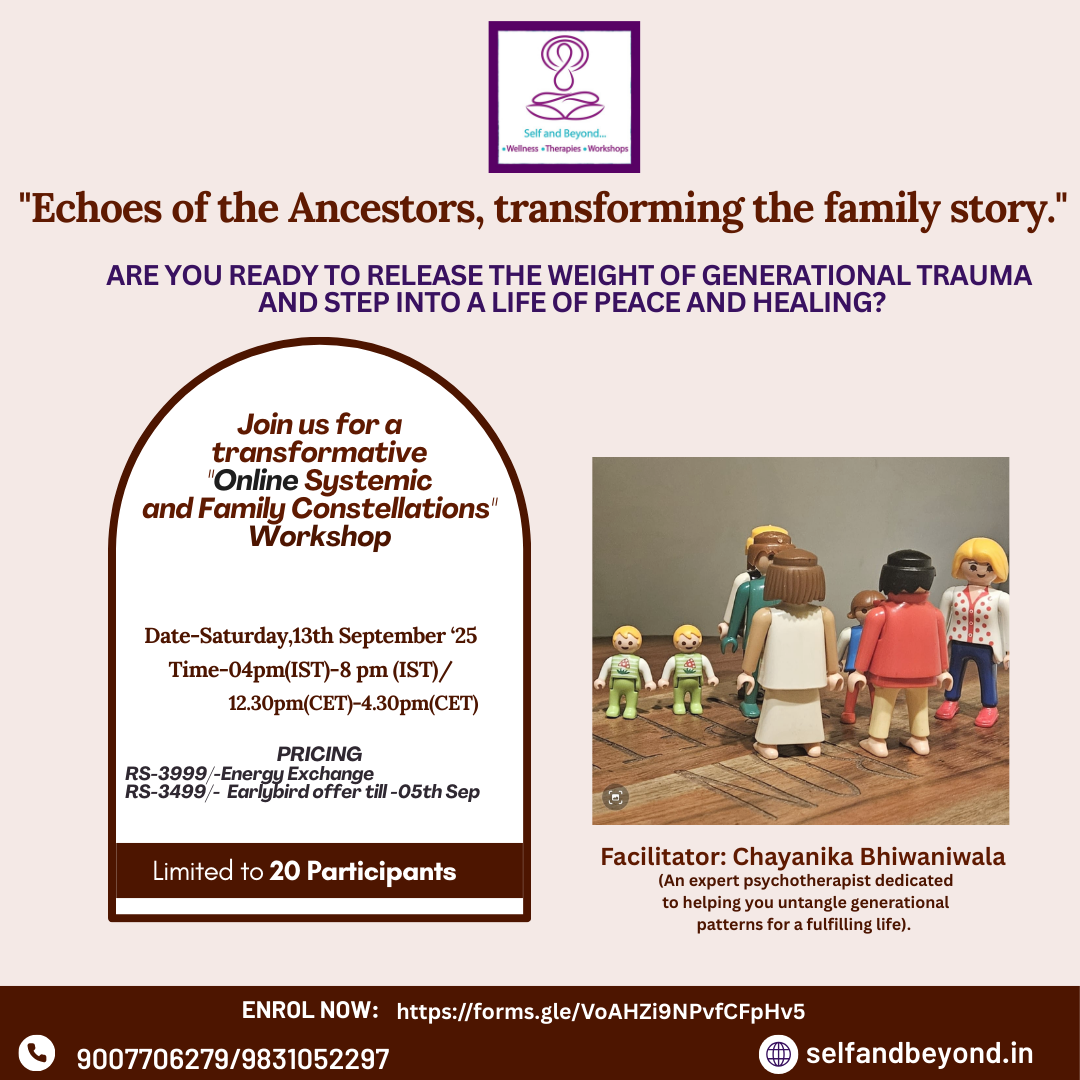
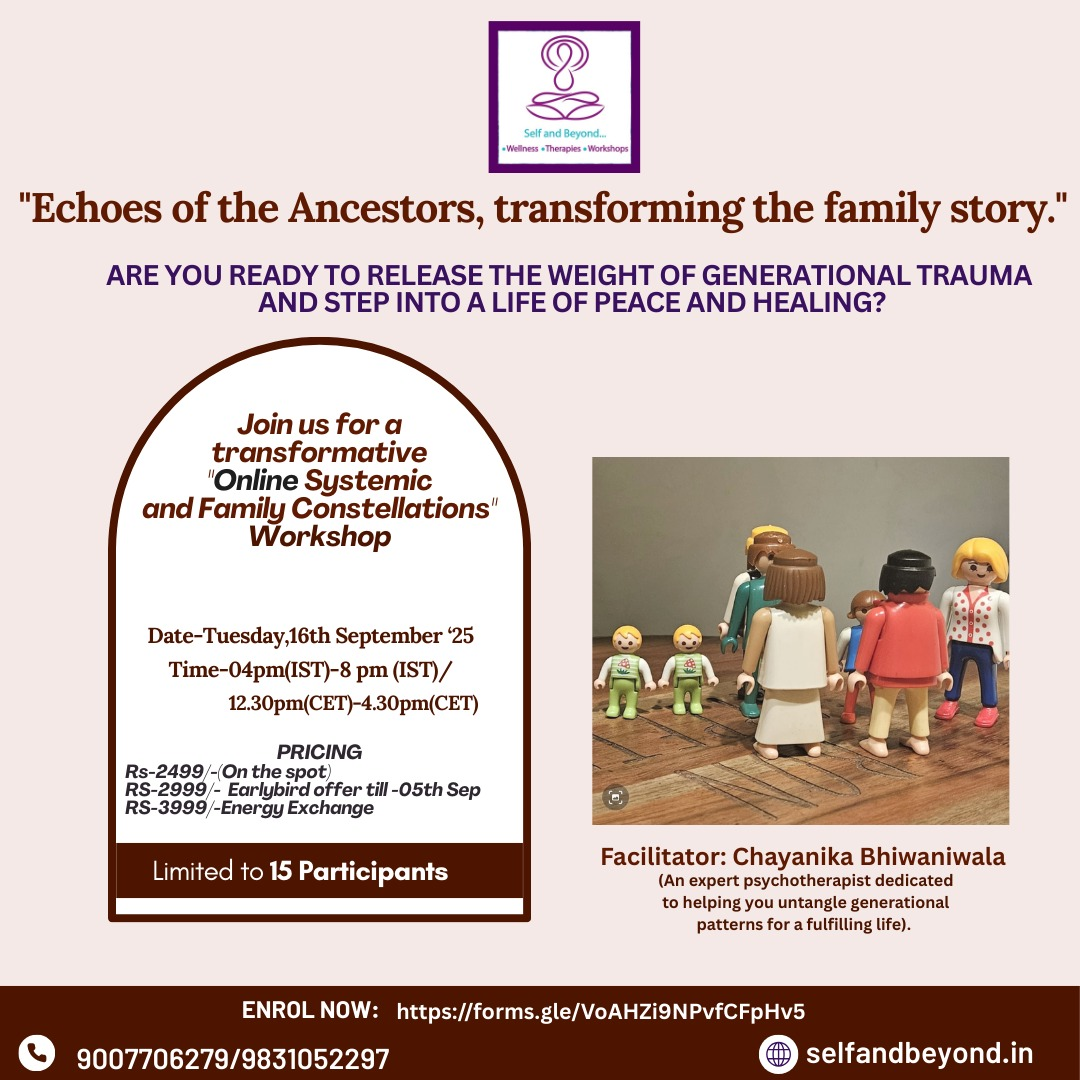
event update

Changed region(s): [[0.1222, 0.6722, 0.4278, 0.7639], [0.1222, 0.5806, 0.4583, 0.6111], [0.2444, 0.7944, 0.4278, 0.825]]

diff --git a/selfandbeyond - Dev/src/app/events/events.component.html b/selfandbeyond - Dev/src/app/events/events.component.html
@@ -21,7 +21,7 @@
         <td>Chayanika Bhiwaniwala</td>
       </tr>
       <tr>
-        <td>13th Sept 2025</td>
+        <td>16th Sept 2025</td>
         <td>4:00 P.M - 8:00 P.M</td>
         <td>Online Systemic and Family Constellations Workshop</td>
         <td>Chayanika Bhiwaniwala</td>

diff --git a/selfandbeyond - Prod/src/app/events/events.component.html b/selfandbeyond - Prod/src/app/events/events.component.html
@@ -21,7 +21,7 @@
         <td>Chayanika Bhiwaniwala</td>
       </tr>
       <tr>
-        <td>13th Sept 2025</td>
+        <td>16th Sept 2025</td>
         <td>4:00 P.M - 8:00 P.M</td>
         <td>Online Systemic and Family Constellations Workshop</td>
         <td>Chayanika Bhiwaniwala</td>
